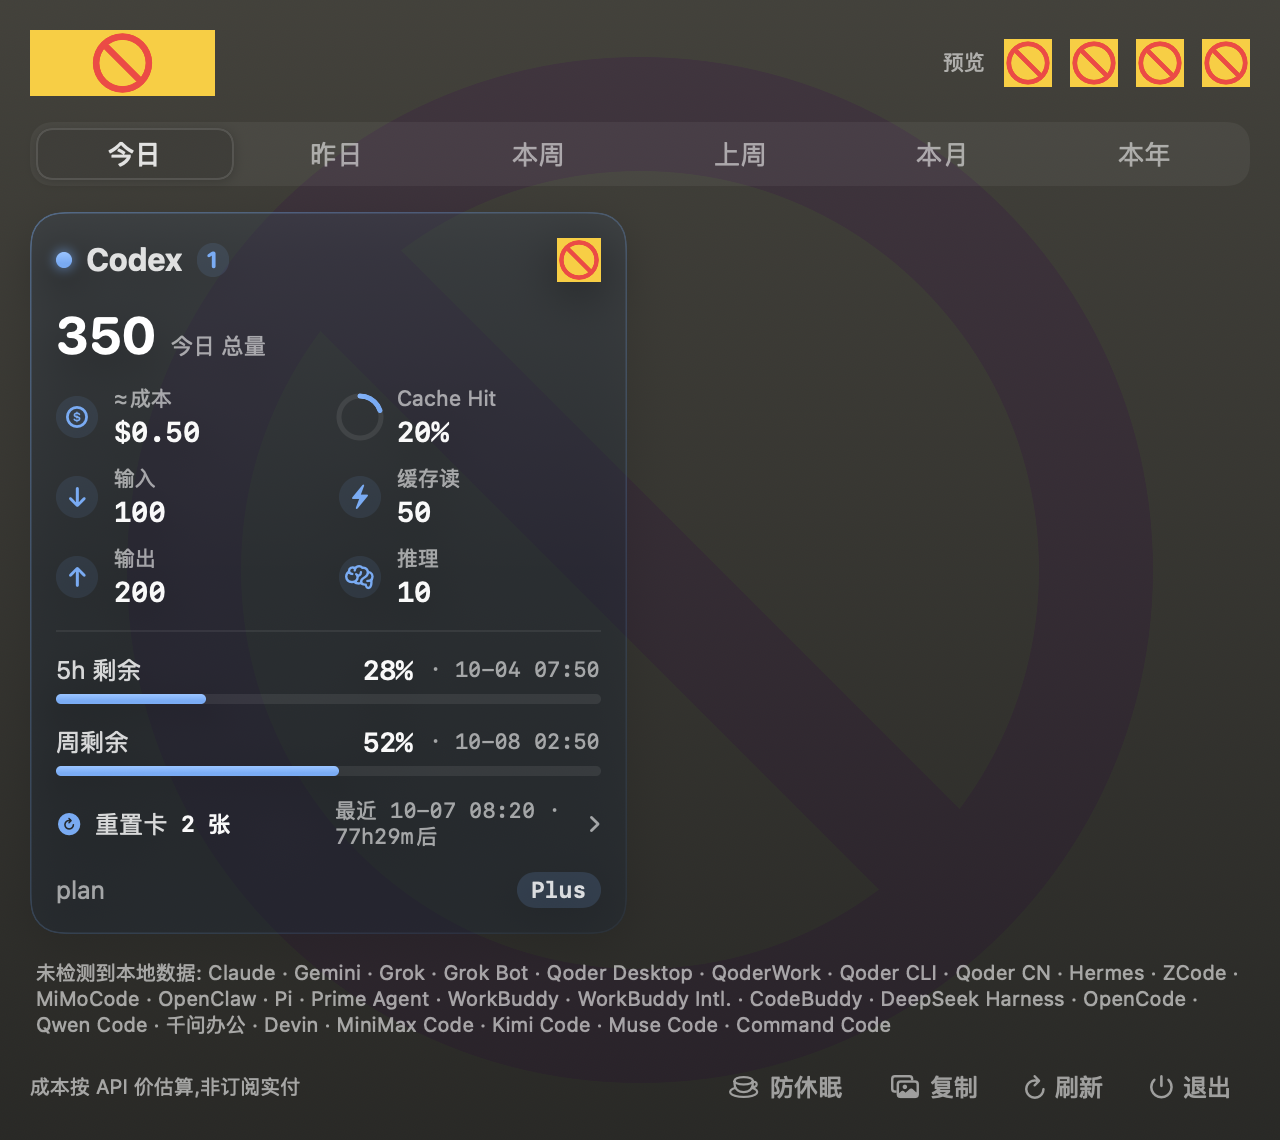
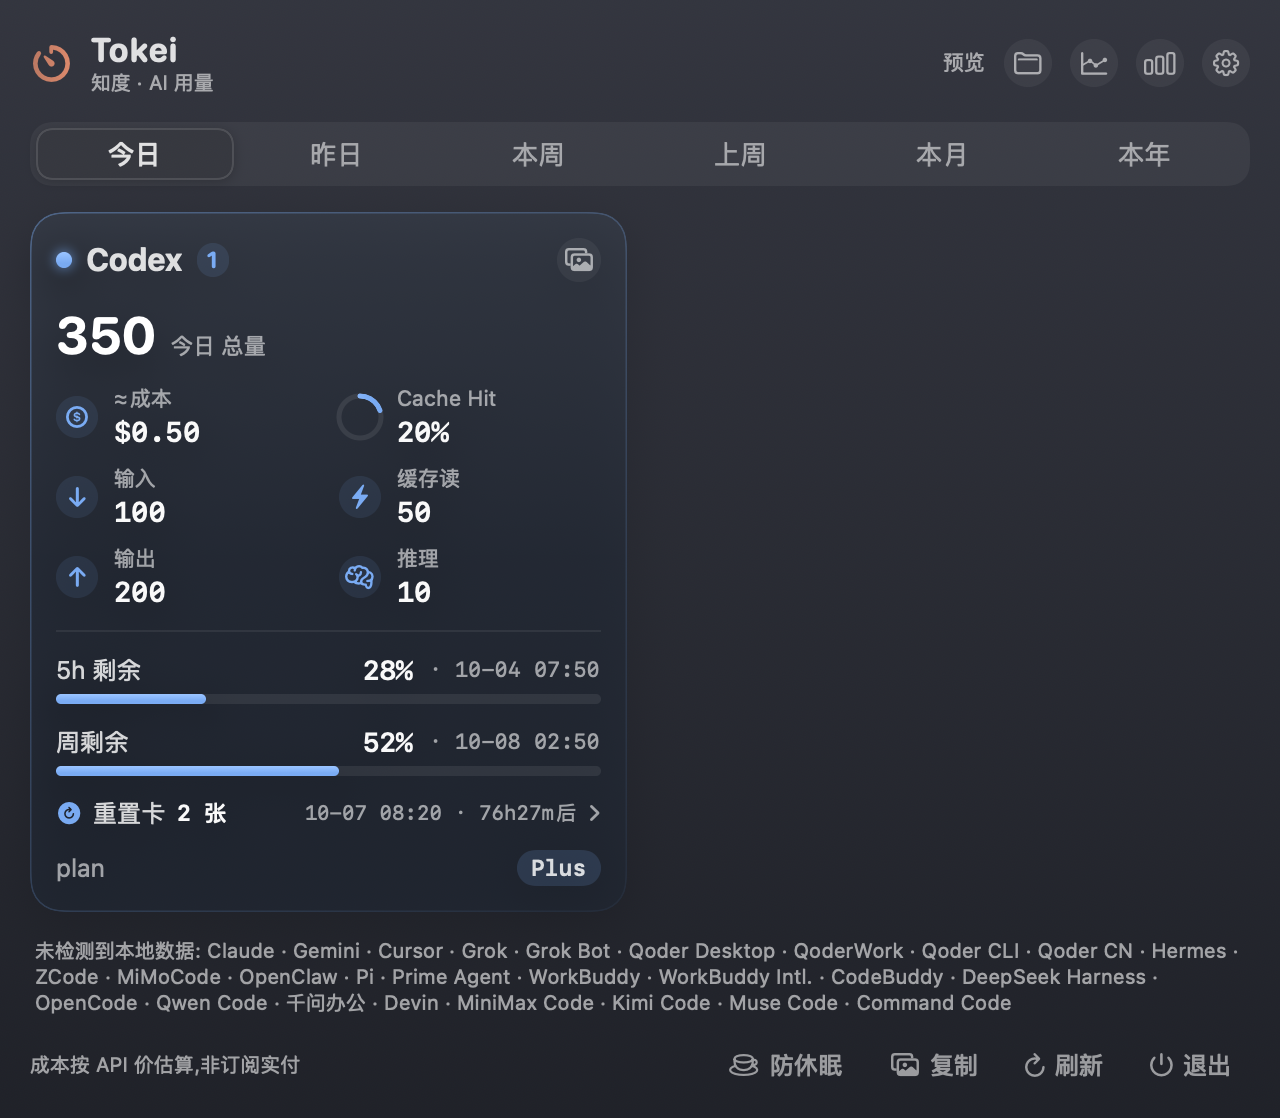
fix(ui): 优化 Codex 重置卡倒计时单行排版并更新 PR 截图

diff --git a/Tokei/Sources/Tokei/main.swift b/Tokei/Sources/Tokei/main.swift
@@ -278,6 +278,9 @@ final class AppDelegate: NSObject, NSApplicationDelegate, NSPopoverDelegate {
     static let visibleRefreshInterval: TimeInterval = 10
     var globalMouseMonitor: Any?
     weak var popoverAnchorButton: NSStatusBarButton?
+    private var usagePreviewMode: Bool {
+        CommandLine.arguments.contains("--preview-usage")
+    }
 
     // 菜单栏额度颜色(与面板 Theme.claude/codex/grok 一致)。
     static let claudeColor = NSColor(red: 0.92, green: 0.52, blue: 0.40, alpha: 1)
@@ -286,6 +289,18 @@ final class AppDelegate: NSObject, NSApplicationDelegate, NSPopoverDelegate {
     static let kimicodeColor = NSColor(red: 0.20, green: 0.78, blue: 0.66, alpha: 1)
 
     func applicationDidFinishLaunching(_ note: Notification) {
+        if usagePreviewMode {
+            guard let usage = Shot.usageArgument() else {
+                fputs("Tokei --preview-usage requires --usage <path>\n", stderr)
+                NSApp.terminate(nil)
+                return
+            }
+            store.usage = usage
+            store.localUsage = usage
+            store.allDevicesUsage = usage
+            store.lastUpdated = L("预览")
+        }
+
         // macOS 26 上用可变宽度初始化时，状态栏项偶发在按钮拿到标题、图标之前就被压没，
         // 进程在跑、菜单栏却看不到图标（issue #8，用户在 26.5 上复现并验证了这套处理）。
         // 先按正方形占位并显式设为可见；拿到内容后 fitStatusItemWidth 再按内容定宽。
@@ -327,6 +342,14 @@ final class AppDelegate: NSObject, NSApplicationDelegate, NSPopoverDelegate {
         // 在外接显示器的全屏 Space 中按错误屏幕重新计算锚点。
         popover.animates = false
         popover.delegate = self
+
+        if usagePreviewMode {
+            // PR 截图用固定 fixture 展示真正的 popover，不启动采集、同步、更新或活动上报。
+            DispatchQueue.main.asyncAfter(deadline: .now() + 0.5) { [weak self] in
+                self?.togglePopover()
+            }
+            return
+        }
 
         // 启动时先把 Qoder IDE / Grok / 千问办公额度开关落盘到 config.json,
         // 确保随后的 refresh() 触发的 Python 扫描能读到正确配置。
@@ -623,23 +646,28 @@ final class AppDelegate: NSObject, NSApplicationDelegate, NSPopoverDelegate {
 // 加 --usage /path/usage.json 时直接渲染这份数据，不跑采集器——用来看过期、空态这类
 // 平时不好凑出来的状态。
 enum Shot {
+    static func usageArgument() -> Usage? {
+        guard let idx = CommandLine.arguments.firstIndex(of: "--usage"),
+              CommandLine.arguments.count > idx + 1 else { return nil }
+        let url = URL(fileURLWithPath: CommandLine.arguments[idx + 1])
+        do {
+            return try JSONDecoder().decode(Usage.self, from: Data(contentsOf: url))
+        } catch {
+            fputs("Tokei --usage: \(error)\n", stderr)
+            return nil
+        }
+    }
+
     static func run(path: String) {
         _ = NSApplication.shared
-        var usage: Usage?
-        if let idx = CommandLine.arguments.firstIndex(of: "--usage"),
-           CommandLine.arguments.count > idx + 1 {
-            let url = URL(fileURLWithPath: CommandLine.arguments[idx + 1])
-            do {
-                usage = try JSONDecoder().decode(Usage.self, from: Data(contentsOf: url))
-            } catch {
-                fputs("Tokei --usage: \(error)\n", stderr)
-            }
-        } else {
+        var usage = usageArgument()
+        if !CommandLine.arguments.contains("--usage") {
             let sem = DispatchSemaphore(value: 0)
             DispatchQueue.global().async { usage = DataLoader.loadSync(); sem.signal() }
             sem.wait()
         }
         MainActor.assumeIsolated {
+            VisualEffect.isOffscreen = true
             let store = Store()
             store.usage = usage
             store.lastUpdated = L("预览")

diff --git a/Tokei/Sources/Tokei/PanelView.swift b/Tokei/Sources/Tokei/PanelView.swift
@@ -822,7 +822,7 @@ struct PanelView: View {
                 codexResetCardsOpen.toggle()
             }
         } label: {
-            HStack(spacing: 6) {
+            HStack(spacing: 5) {
                 Image(systemName: "arrow.clockwise.circle.fill")
                     .font(.system(size: Theme.fontSize(10)))
                     .foregroundStyle(Theme.codex)
@@ -832,11 +832,13 @@ struct PanelView: View {
                 Text(L("%@ 张", cards.count))
                     .font(.system(size: Theme.fontSize(10), weight: .semibold, design: .monospaced))
                     .foregroundStyle(Theme.tPrimary)
-                Spacer(minLength: 6)
+                Spacer(minLength: 4)
                 if let nearest = expirations.first {
-                    Text(L("最近 %@ · %@后", Fmt.localTime(nearest), Fmt.countdown(nearest)))
-                        .font(.system(size: Theme.fontSize(9.5), design: .monospaced))
+                    Text(L("%@ · %@后", Fmt.localTime(nearest), Fmt.countdown(nearest)))
+                        .font(.system(size: Theme.fontSize(9), design: .monospaced))
                         .foregroundStyle(Theme.tTertiary)
+                        .lineLimit(1)
+                        .minimumScaleFactor(0.8)
                 }
                 Image(systemName: codexResetCardsOpen ? "chevron.down" : "chevron.right")
                     .font(.system(size: Theme.fontSize(8), weight: .bold))
@@ -857,6 +859,7 @@ struct PanelView: View {
                     Text(Fmt.localTimeZoneCaption())
                         .font(.system(size: Theme.fontSize(9), design: .monospaced))
                         .foregroundStyle(Theme.tTertiary)
+                        .lineLimit(1)
                 }
                 ForEach(Array(expirations.enumerated()), id: \.offset) { index, expiry in
                     HStack(spacing: 7) {
@@ -869,9 +872,11 @@ struct PanelView: View {
                             .font(.system(size: Theme.fontSize(10.5), weight: .medium))
                             .foregroundStyle(Theme.tSecondary)
                         Spacer()
-                        Text(L("%@ · %@后", Fmt.localTime(expiry, full: true), Fmt.countdown(expiry)))
+                        Text(L("%@ · %@后", Fmt.localTime(expiry), Fmt.countdown(expiry)))
                             .font(.system(size: Theme.fontSize(9.5), design: .monospaced))
                             .foregroundStyle(Theme.tPrimary)
+                            .lineLimit(1)
+                            .minimumScaleFactor(0.85)
                     }
                 }
             }

diff --git a/Tokei/Sources/Tokei/Design.swift b/Tokei/Sources/Tokei/Design.swift
@@ -1,6 +1,20 @@
 import SwiftUI
 
-struct VisualEffect: NSViewRepresentable {
+struct VisualEffect: View {
+    /// 离屏渲染（如 ImageRenderer）不支持 NSViewRepresentable，会退化成黄底红禁行标志。
+    /// 离屏模式下跳过毛玻璃层与 tooltip 宿主视图。
+    static var isOffscreen = false
+
+    var body: some View {
+        if Self.isOffscreen {
+            EmptyView()
+        } else {
+            VisualEffectRepresentable()
+        }
+    }
+}
+
+private struct VisualEffectRepresentable: NSViewRepresentable {
     func makeNSView(context: Context) -> NSVisualEffectView {
         let v = NSVisualEffectView()
         v.material = .hudWindow
@@ -24,7 +38,14 @@ struct Tip: NSViewRepresentable {
 }
 
 extension View {
-    func tip(_ text: String) -> some View { overlay(Tip(text: text)) }
+    @ViewBuilder
+    func tip(_ text: String) -> some View {
+        if VisualEffect.isOffscreen {
+            self
+        } else {
+            overlay(Tip(text: text))
+        }
+    }
 }
 
 // 设计系统:颜色 / 间距 / 圆角集中定义,组件语义化复用。

diff --git a/Tokei/Sources/Tokei/UsageShareImage.swift b/Tokei/Sources/Tokei/UsageShareImage.swift
@@ -92,6 +92,9 @@ enum UsageShareImage {
 
     @MainActor
     private static func renderView<V: View>(_ content: V) -> NSImage? {
+        let prev = VisualEffect.isOffscreen
+        VisualEffect.isOffscreen = true
+        defer { VisualEffect.isOffscreen = prev }
         let renderer = ImageRenderer(content: content.environment(\.colorScheme, .dark))
         renderer.scale = renderScale
         guard let cg = renderer.cgImage else { return nil }

diff --git a/docs/pr-codex-reset/README.md b/docs/pr-codex-reset/README.md
@@ -2,15 +2,40 @@
 
 离屏渲染（与 `Tokei --shot` 一致），不依赖真实 Codex 登录态。
 
+## 生成 PR 截图
+
+构建本地 App 并生成折叠与展开状态截图：
+
 ```bash
-cd Tokei && TOKEI_ARCHS=arm64 TOKEI_LOCAL_BUILD=1 ./package.sh
+cd Tokei
+TOKEI_ARCHS=arm64 TOKEI_LOCAL_BUILD=1 ./package.sh
+
+# 折叠状态
 ./Tokei.app/Contents/MacOS/Tokei \
+  --lang zh \
   --usage ../docs/pr-codex-reset/usage-reset-cards.json \
   --shot ../docs/pr-codex-reset/codex-reset-collapsed.png
+
+# 展开状态
 ./Tokei.app/Contents/MacOS/Tokei \
+  --lang zh \
   --usage ../docs/pr-codex-reset/usage-reset-cards.json \
   --expand-codex-reset-cards \
   --shot ../docs/pr-codex-reset/codex-reset-expanded.png
 ```
 
-`usage-reset-cards.json` 里的 `expires` 为生成时的相对时间戳；重跑截图前可重新执行仓库根目录下的 fixture 生成脚本（见 PR 说明）或手改 epoch。
+## 交互式预览
+
+若需要在真实 macOS 状态栏弹窗中查看效果（只读 fixture，不启动采集、同步、更新或活动上报）：
+
+```bash
+./Tokei/Tokei.app/Contents/MacOS/Tokei \
+  --preview-usage \
+  --usage docs/pr-codex-reset/usage-reset-cards.json \
+  --expand-codex-reset-cards
+```
+
+## 技术说明
+
+- `usage-reset-cards.json` 里的 `expires` 为相对时间戳；重置卡倒计时基于当前系统时间动态计算。
+- SwiftUI `ImageRenderer` 离屏渲染不支持 `NSViewRepresentable`，否则会退化为 macOS 黄底红禁行占位符。`VisualEffect.isOffscreen` 在 `--shot` 模式下自动跳过毛玻璃层与 tooltip 桥接视图，保证所有 SF Symbols 与界面元素正常绘制。
